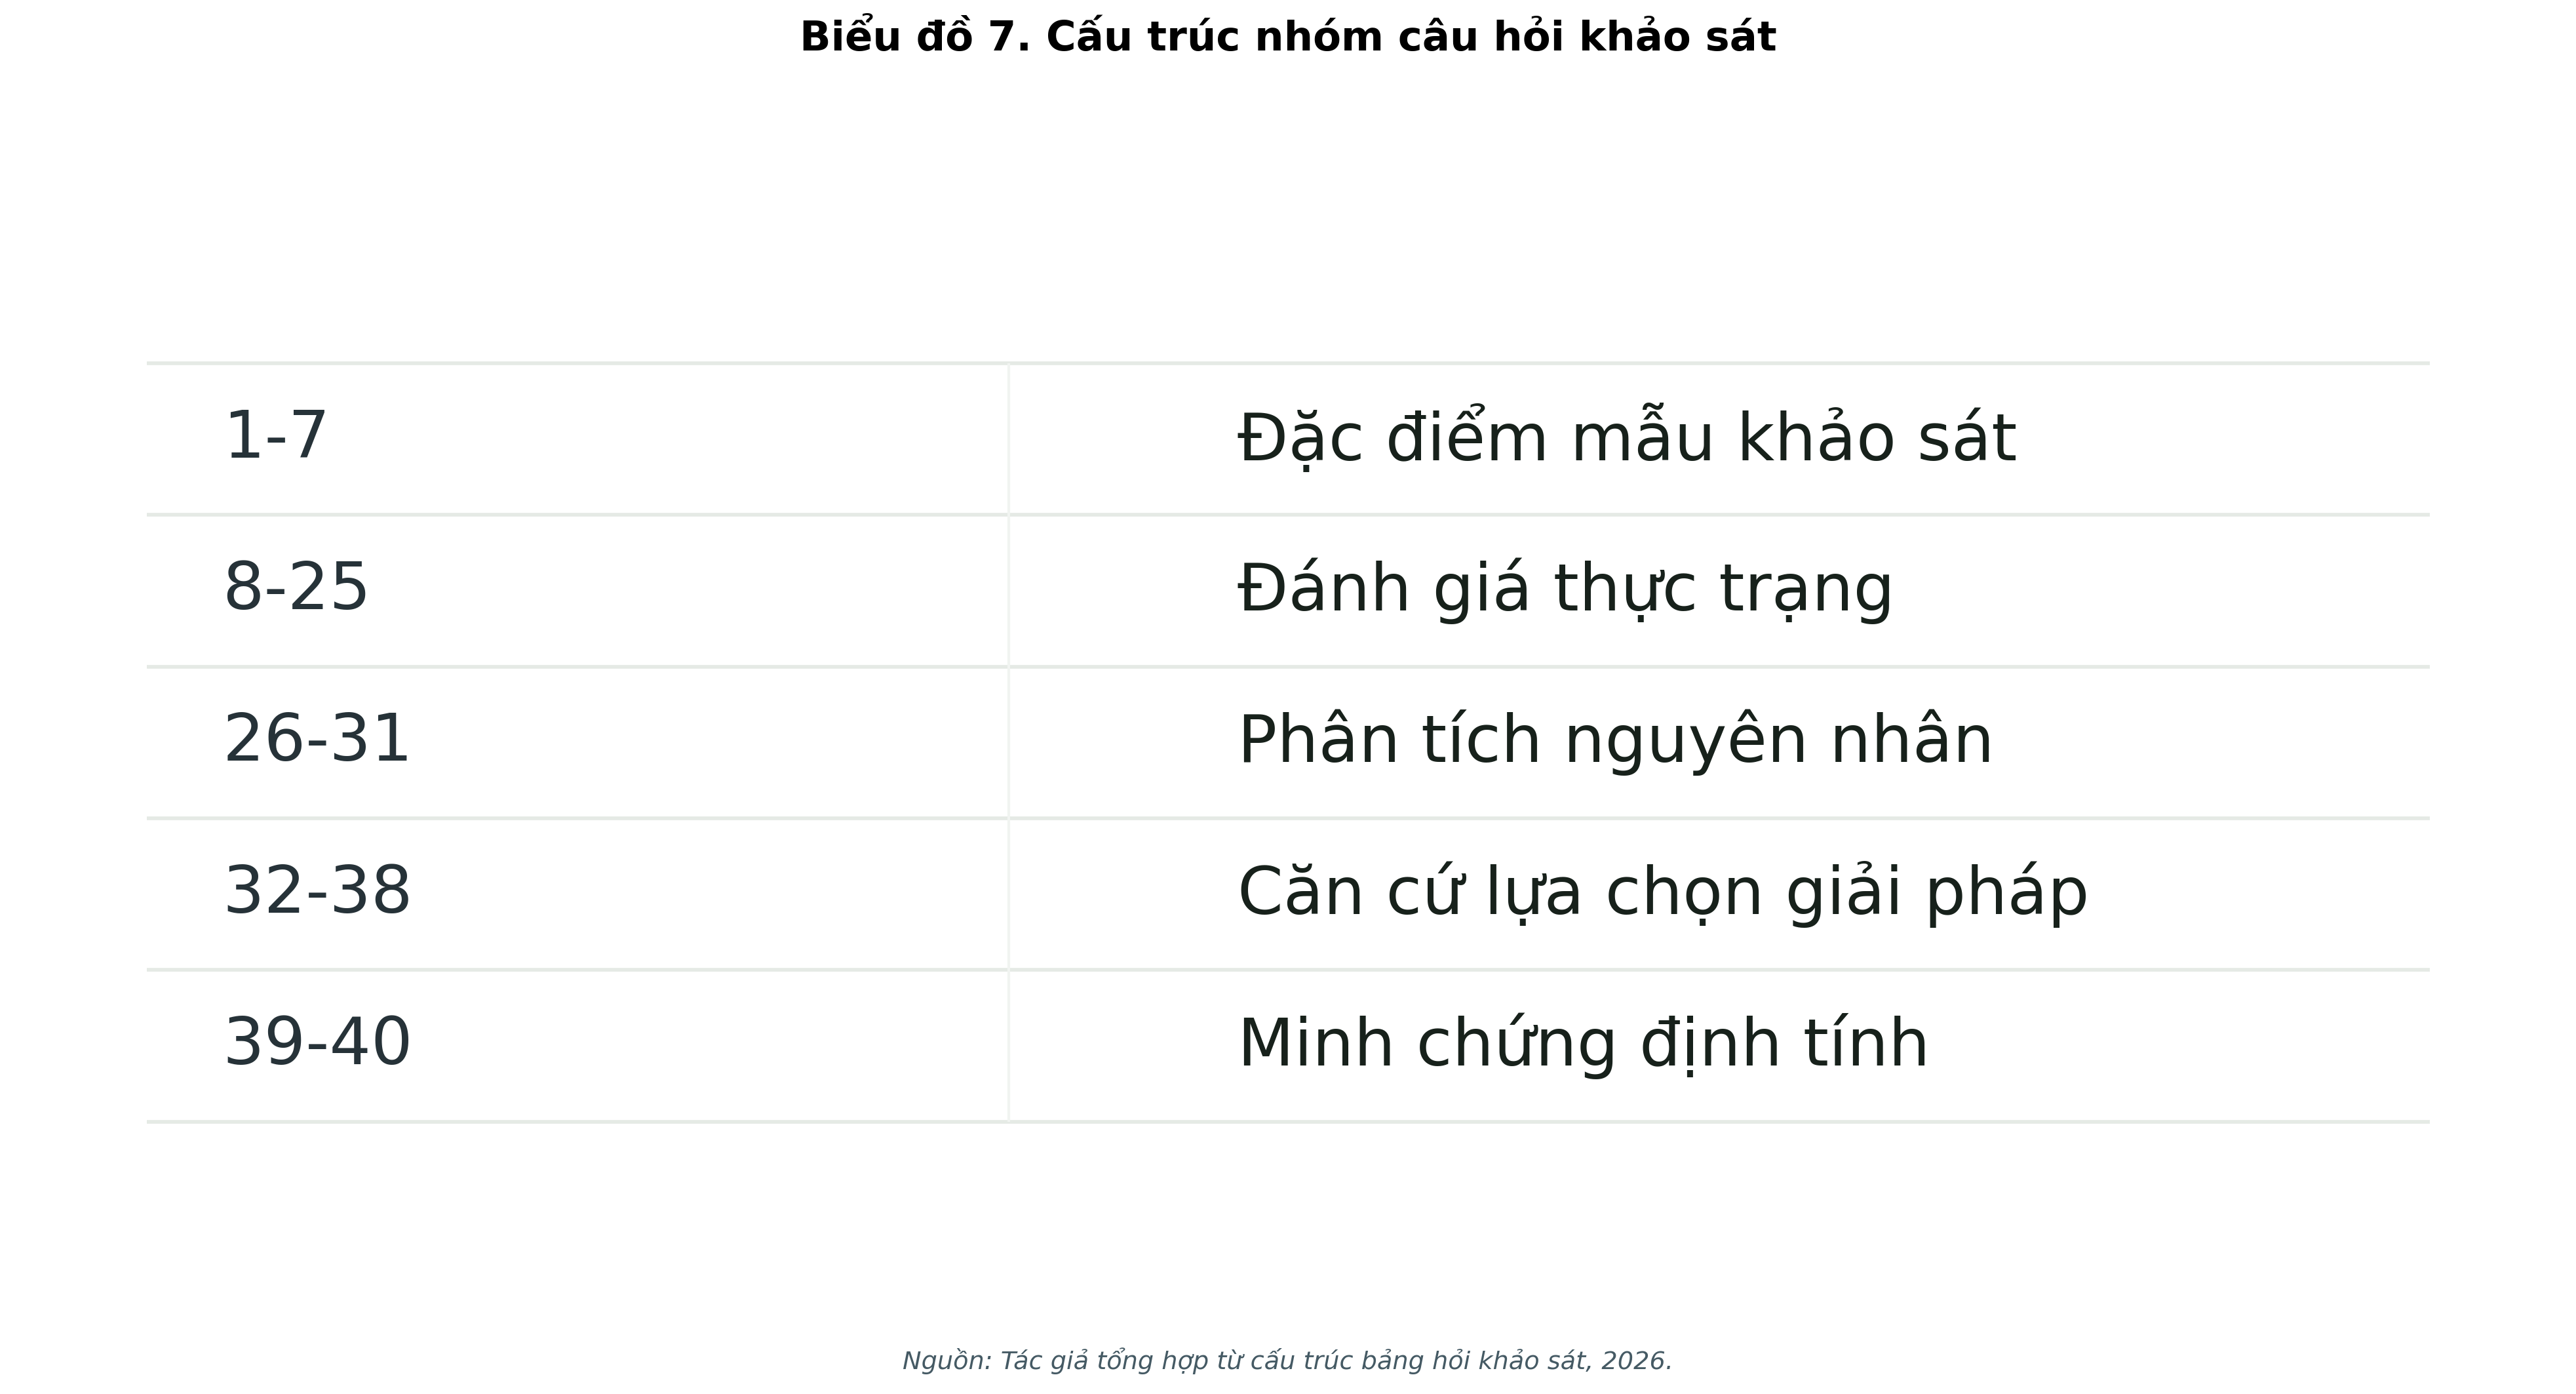
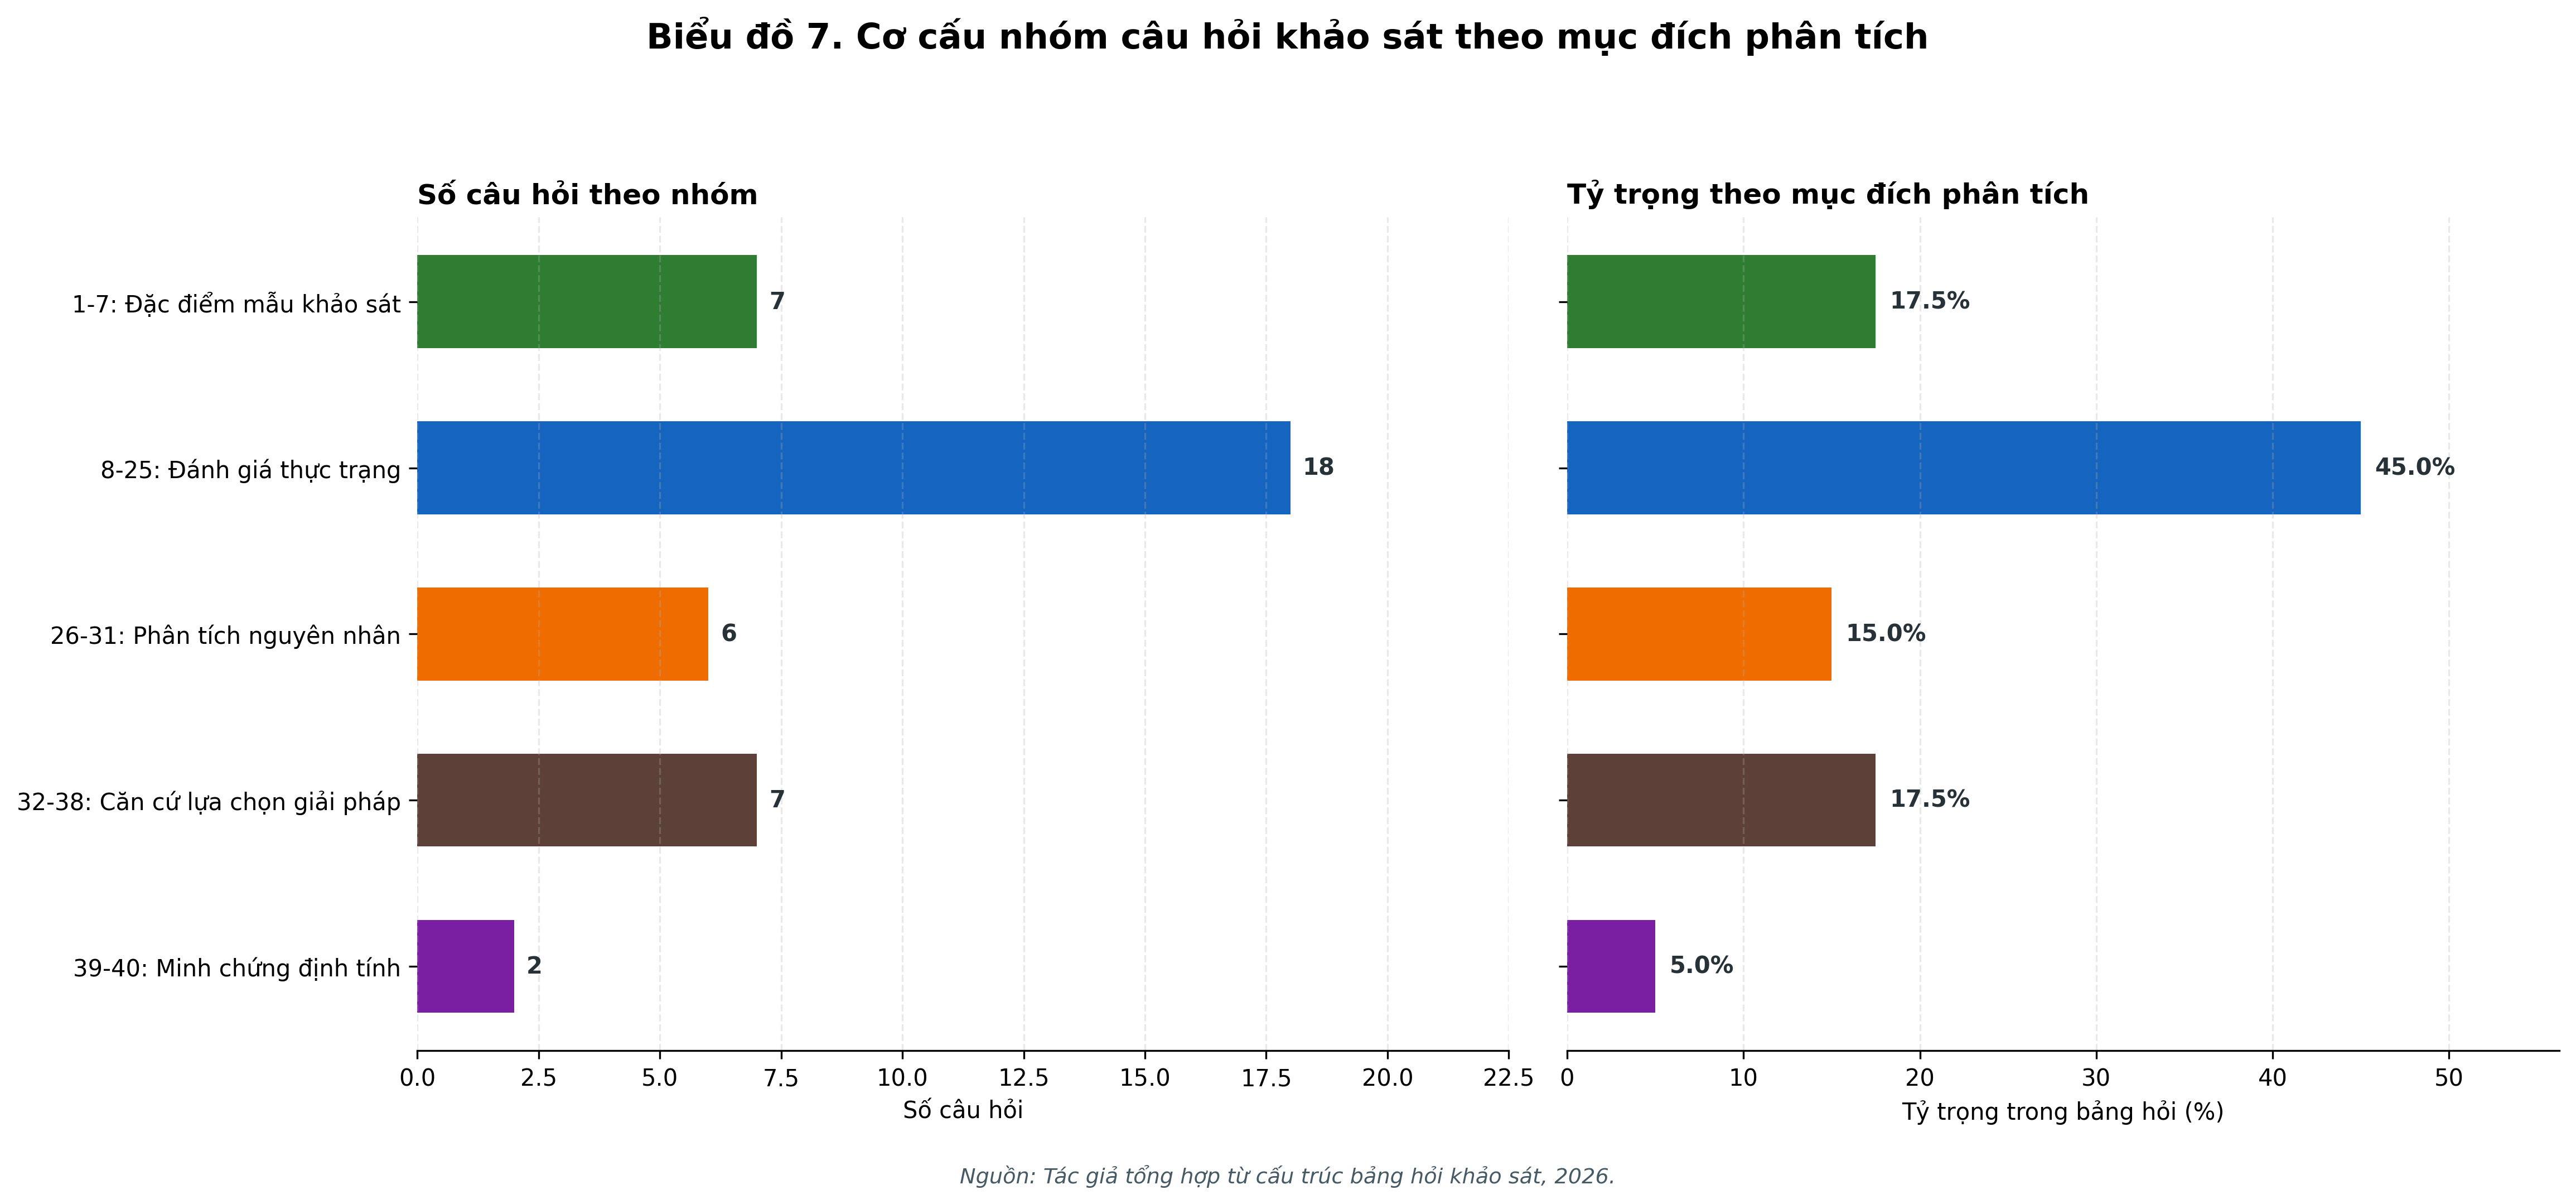
up

diff --git a/dir tôi/scripts/ve_bieu_do_khao_sat.py b/dir tôi/scripts/ve_bieu_do_khao_sat.py
@@ -57,6 +57,14 @@ SECTION_RANGES = [
     ("Giải pháp đề xuất", 32, 38, "#5D4037"),
 ]
 
+QUESTION_GROUPS = [
+    ("1-7", "Đặc điểm mẫu khảo sát", 7, "#2E7D32"),
+    ("8-25", "Đánh giá thực trạng", 18, "#1565C0"),
+    ("26-31", "Phân tích nguyên nhân", 6, "#EF6C00"),
+    ("32-38", "Căn cứ lựa chọn giải pháp", 7, "#5D4037"),
+    ("39-40", "Minh chứng định tính", 2, "#7B1FA2"),
+]
+
 
 def q(ns: str, tag: str) -> str:
     return f"{{{NS[ns]}}}{tag}"
@@ -524,63 +532,47 @@ def draw_open_answers(headers: list[str], data: list[list[str]]) -> Path:
 
 
 def draw_question_group_chart() -> Path:
-    groups = [
-        ("1-7", "Đặc điểm mẫu khảo sát"),
-        ("8-25", "Đánh giá thực trạng"),
-        ("26-31", "Phân tích nguyên nhân"),
-        ("32-38", "Căn cứ lựa chọn giải pháp"),
-        ("39-40", "Minh chứng định tính"),
-    ]
+    total_questions = sum(item[2] for item in QUESTION_GROUPS)
+    labels = [wrap_label(f"{item[0]}: {item[1]}", 34) for item in QUESTION_GROUPS]
+    counts = [item[2] for item in QUESTION_GROUPS]
+    shares = [count / total_questions * 100 for count in counts]
+    colors = [item[3] for item in QUESTION_GROUPS]
+    y = np.arange(len(QUESTION_GROUPS))
 
-    fig, ax = plt.subplots(figsize=(13.2, 7.2))
-    ax.set_xlim(0, 1)
-    ax.set_ylim(0, 1)
-    ax.axis("off")
+    fig, axes = plt.subplots(1, 2, figsize=(15.5, 7.2), gridspec_kw={"width_ratios": [1.1, 1]})
+
+    axes[0].barh(y, counts, color=colors, height=0.56)
+    axes[0].set_yticks(y)
+    axes[0].set_yticklabels(labels, fontsize=10)
+    axes[0].invert_yaxis()
+    axes[0].set_xlim(0, max(counts) * 1.25)
+    axes[0].set_xlabel("Số câu hỏi")
+    axes[0].set_title("Số câu hỏi theo nhóm", fontweight="bold", loc="left")
+    for yi, count in zip(y, counts):
+        axes[0].text(count + 0.25, yi, f"{count}", va="center", fontweight="bold", color="#263238")
+
+    axes[1].barh(y, shares, color=colors, height=0.56)
+    axes[1].set_yticks(y)
+    axes[1].set_yticklabels([])
+    axes[1].invert_yaxis()
+    axes[1].set_xlim(0, max(shares) * 1.25)
+    axes[1].set_xlabel("Tỷ trọng trong bảng hỏi (%)")
+    axes[1].set_title("Tỷ trọng theo mục đích phân tích", fontweight="bold", loc="left")
+    for yi, share in zip(y, shares):
+        axes[1].text(share + 0.8, yi, f"{share:.1f}%", va="center", fontweight="bold", color="#263238")
+
+    for ax in axes:
+        ax.grid(axis="x", linestyle="--", alpha=0.28)
+        for spine in ("top", "right", "left"):
+            ax.spines[spine].set_visible(False)
 
     fig.suptitle(
-        "Biểu đồ 7. Cấu trúc nhóm câu hỏi khảo sát",
+        "Biểu đồ 7. Cơ cấu nhóm câu hỏi khảo sát theo mục đích phân tích",
         fontsize=15,
         fontweight="bold",
-        y=0.965,
     )
-
-    left_x = 0.08
-    right_x = 0.48
-    top = 0.84
-    row_height = 0.135
-    line_color = "#E5EAE5"
-    range_color = "#263238"
-    label_color = "#17211B"
-
-    for index, (question_range, purpose) in enumerate(groups):
-        y_top = top - index * row_height
-        y_mid = y_top - row_height / 2
-        ax.hlines(y_top, 0.05, 0.95, color=line_color, linewidth=1.35)
-        ax.text(
-            left_x,
-            y_mid,
-            question_range,
-            ha="left",
-            va="center",
-            fontsize=24,
-            color=range_color,
-            fontweight="normal",
-        )
-        ax.text(
-            right_x,
-            y_mid,
-            purpose,
-            ha="left",
-            va="center",
-            fontsize=24,
-            color=label_color,
-            fontweight="normal",
-        )
-
-    ax.hlines(top - len(groups) * row_height, 0.05, 0.95, color=line_color, linewidth=1.35)
-    ax.vlines(0.39, top - len(groups) * row_height, top, color="#F1F4F1", linewidth=1)
     add_source(fig, "Nguồn: Tác giả tổng hợp từ cấu trúc bảng hỏi khảo sát, 2026.")
-    fig.tight_layout(rect=[0, 0.035, 1, 0.92])
+    fig.tight_layout(rect=[0, 0.04, 1, 0.92])
     return save(fig, "07_nhom_cau_hoi_khao_sat.png")
 
 
@@ -604,6 +596,17 @@ def write_csv_summary(summary: list[dict[str, object]]) -> Path:
                 f"{item['n']},"
                 f"\"{question}\"\n"
             )
+    return path
+
+
+def write_question_group_summary() -> Path:
+    path = CURRENT_OUT_DIR / "bang_nhom_cau_hoi_khao_sat.csv"
+    total_questions = sum(item[2] for item in QUESTION_GROUPS)
+    with path.open("w", encoding="utf-8-sig", newline="") as f:
+        writer = csv.writer(f)
+        writer.writerow(["range", "group", "question_count", "share_pct"])
+        for question_range, group, question_count, _ in QUESTION_GROUPS:
+            writer.writerow([question_range, group, question_count, f"{question_count / total_questions * 100:.4f}"])
     return path
 
 
@@ -786,6 +789,7 @@ def generate_chart_bundle(headers: list[str], data: list[list[str]], raw_csv_pat
         draw_question_group_chart(),
     ]
     csv_path = write_csv_summary(summary)
+    write_question_group_summary()
     report_path = write_report(image_paths, csv_path, raw_csv_path, len(data))
     return image_paths, csv_path, report_path
 

diff --git a/tests/question-group-chart.test.py b/tests/question-group-chart.test.py
@@ -1,0 +1,23 @@
+import csv
+from pathlib import Path
+
+
+EXPECTED = [
+    ("1-7", "Đặc điểm mẫu khảo sát", "7"),
+    ("8-25", "Đánh giá thực trạng", "18"),
+    ("26-31", "Phân tích nguyên nhân", "6"),
+    ("32-38", "Căn cứ lựa chọn giải pháp", "7"),
+    ("39-40", "Minh chứng định tính", "2"),
+]
+
+
+for root in [
+    Path("charts/khao_sat_du_lich_nong_nghiep_xanh_cu_chi"),
+    Path("charts/khao_sat_fake_241"),
+]:
+    path = root / "bang_nhom_cau_hoi_khao_sat.csv"
+    assert path.exists(), f"question-group summary CSV must exist: {path}"
+    with path.open(encoding="utf-8-sig", newline="") as f:
+        rows = list(csv.DictReader(f))
+    actual = [(row["range"], row["group"], row["question_count"]) for row in rows]
+    assert actual == EXPECTED, f"unexpected question-group summary in {path}: {actual}"